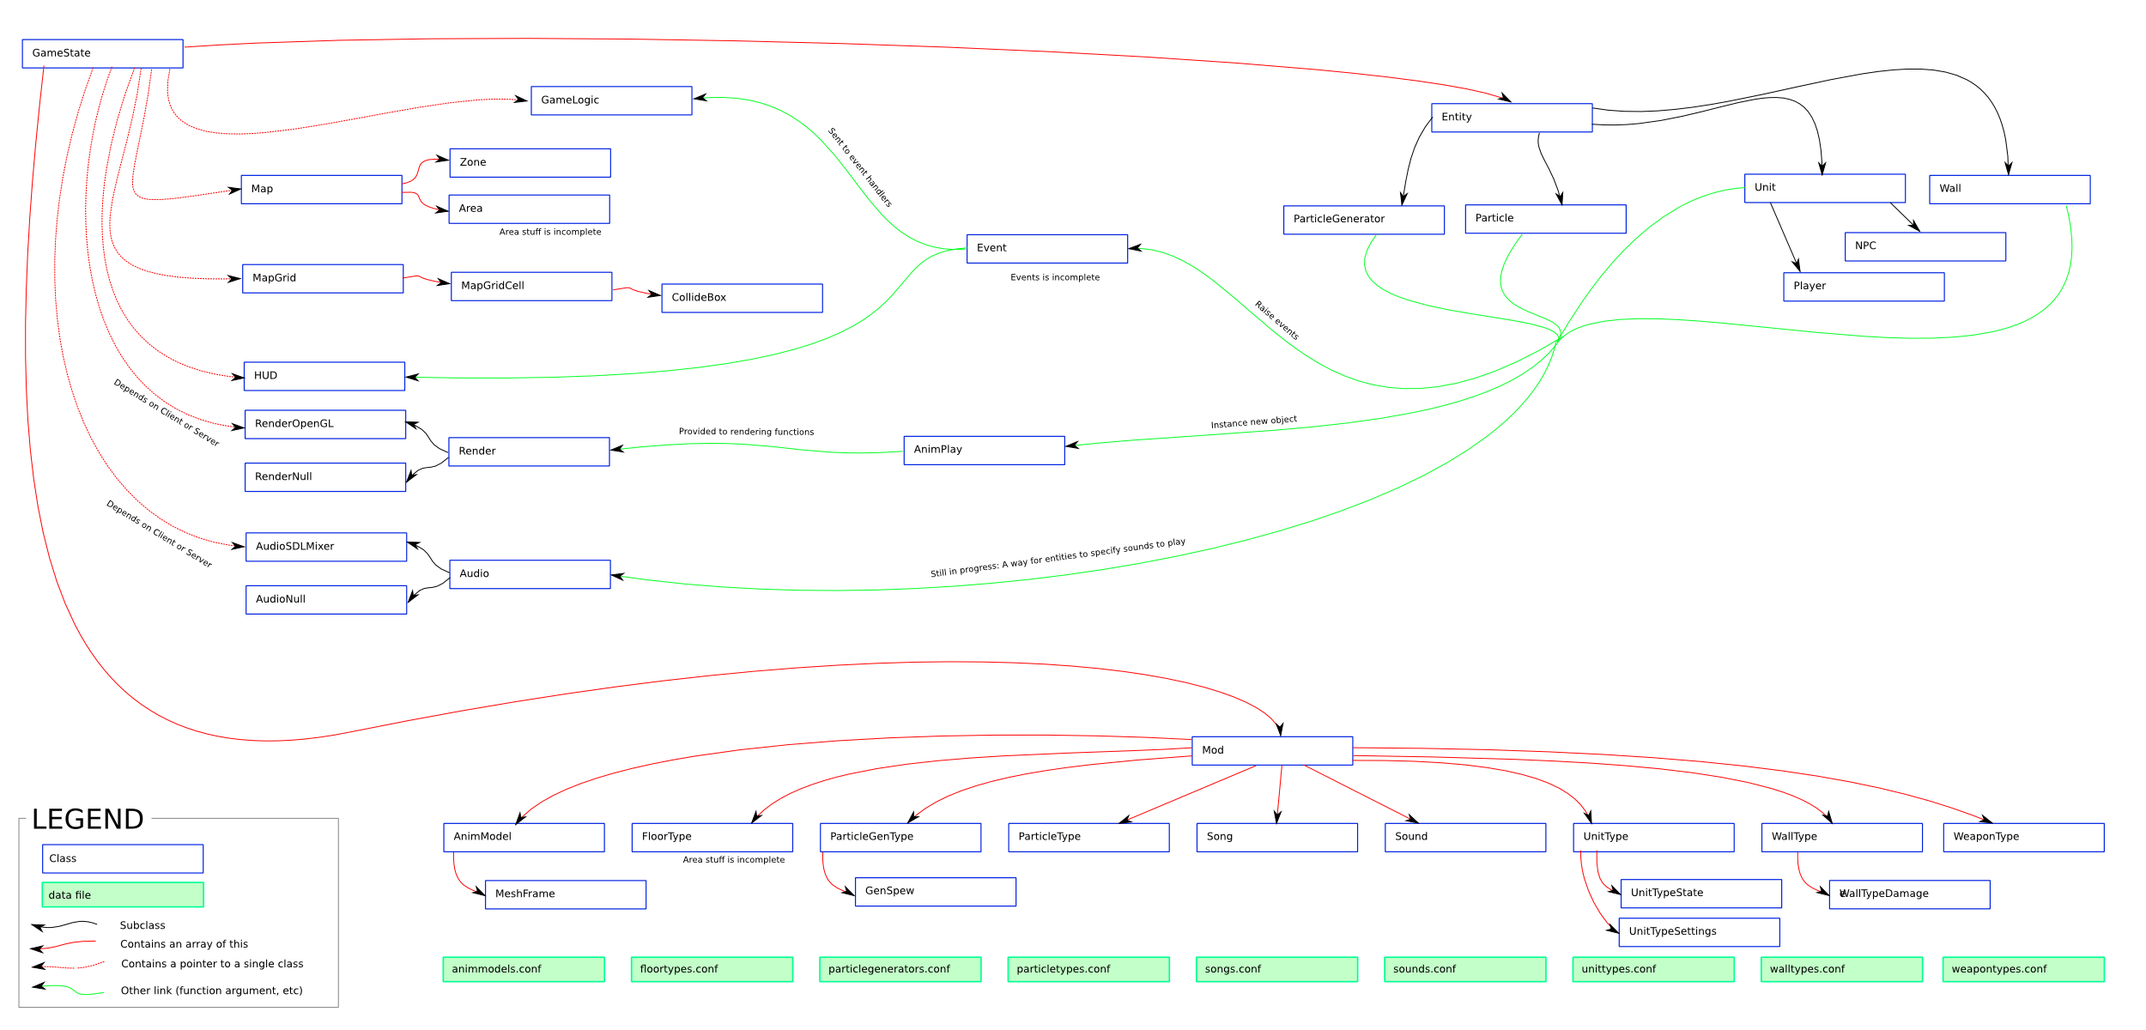
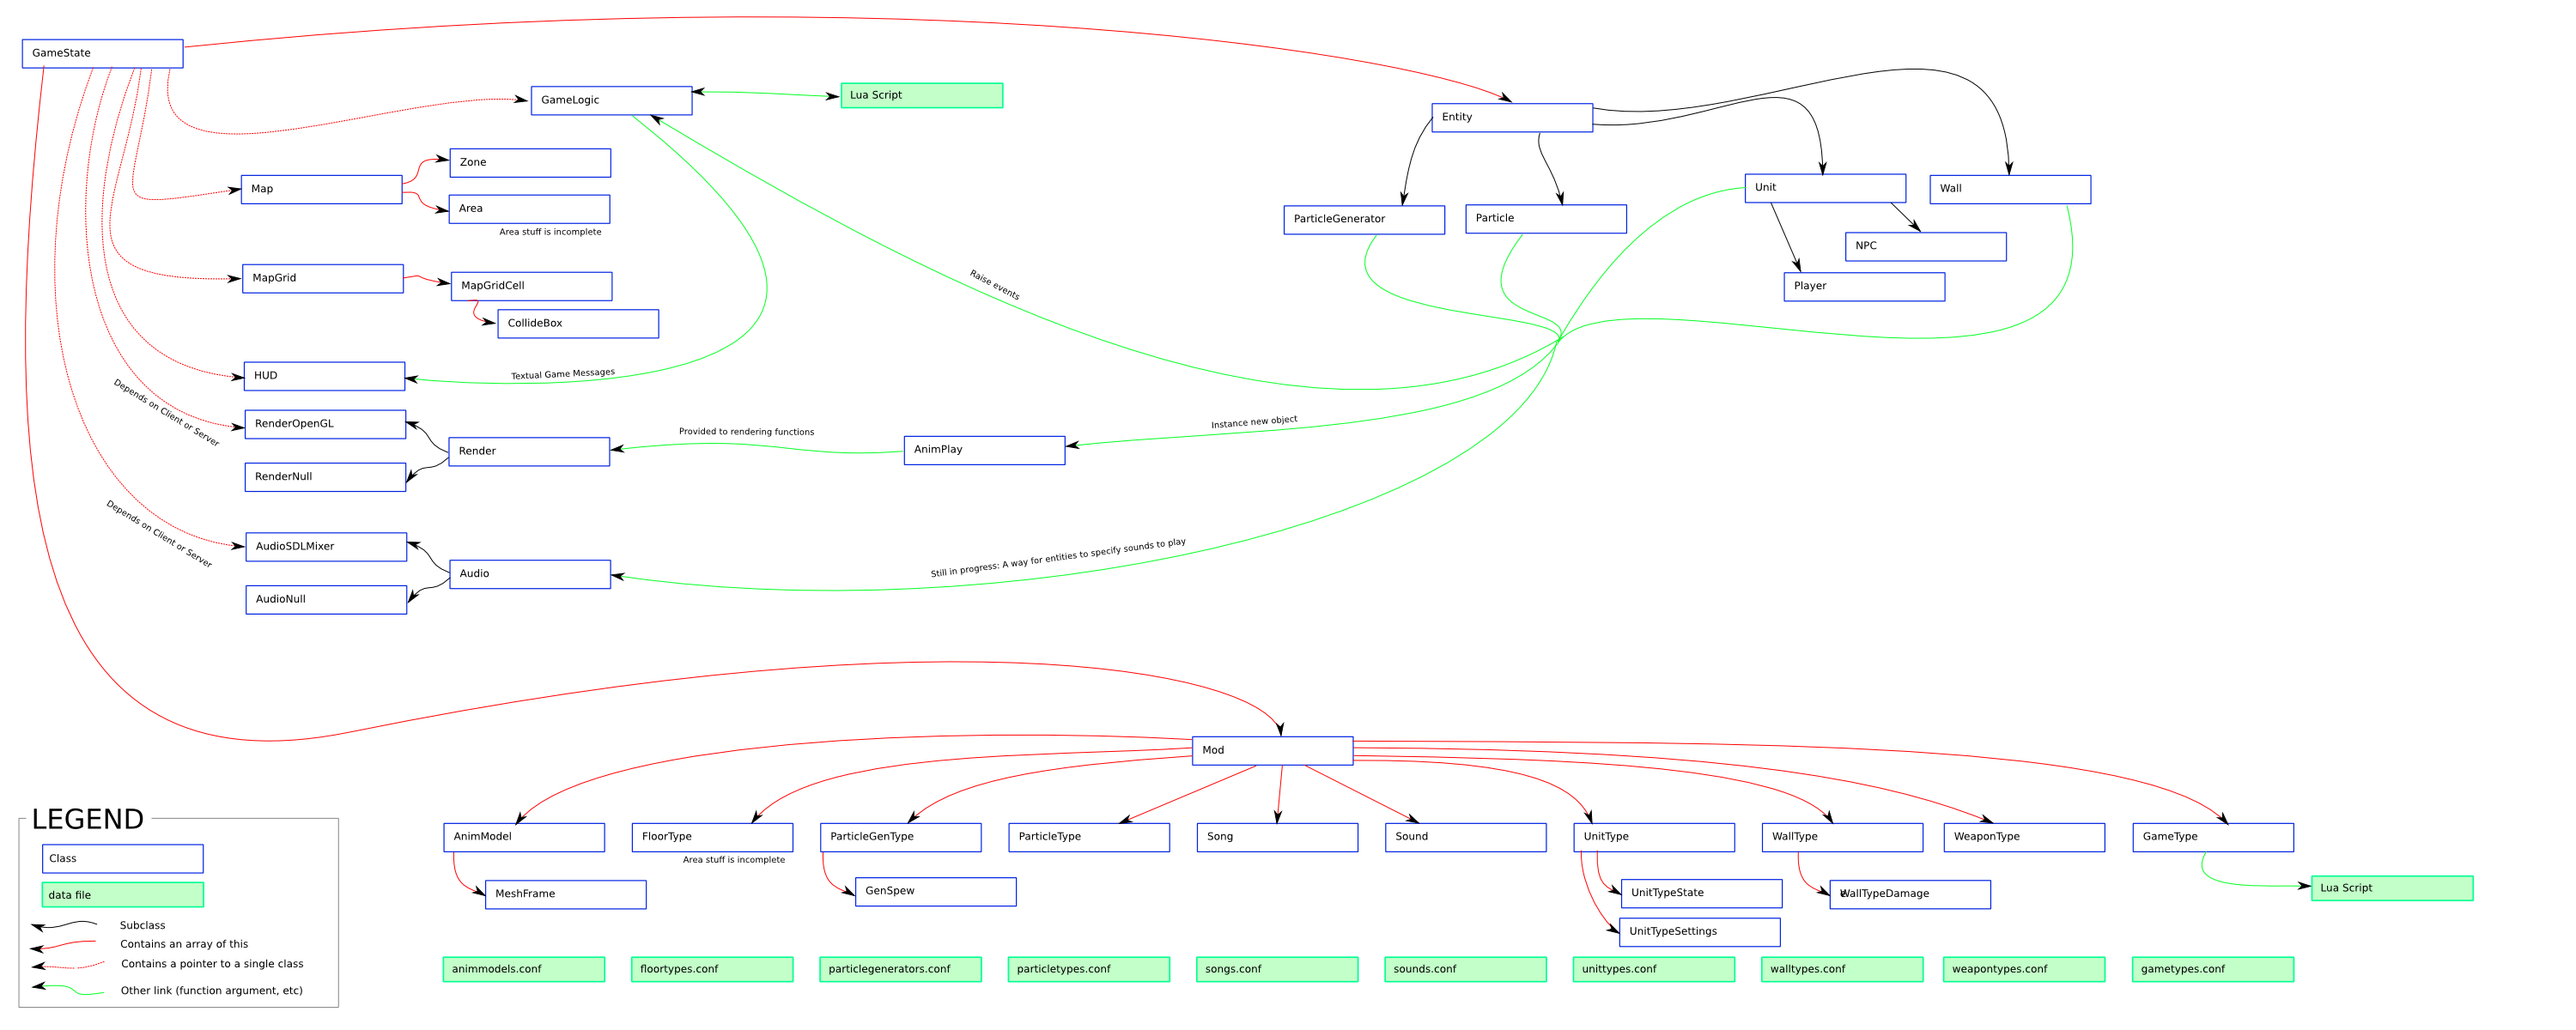
Removed the class 'Event'.

diff --git a/src/game.cpp b/src/game.cpp
@@ -21,16 +21,11 @@ static bool running;
 void gameLoop(GameState *st, Render *render)
 {
 	int start = 0, delta = 0;
-	Event * ev;
 	
 	SDL_WM_GrabInput(SDL_GRAB_ON);
 	SDL_WarpMouse(400, 30);
 	
 	st->render->preGame();
-	
-	ev = new Event();
-	ev->type = GAME_STARTED;
-	fireEvent(ev);
 	
 	st->start();
 	st->logic->raise_gamestart();
@@ -48,10 +43,6 @@ void gameLoop(GameState *st, Render *render)
 		st->render->render();
 		st->audio->play();
 	}
-	
-	ev = new Event();
-	ev->type = GAME_ENDED;
-	fireEvent(ev);
 	
 	SDL_WM_GrabInput(SDL_GRAB_OFF);
 	

diff --git a/src/audio_sdlmixer.cpp b/src/audio_sdlmixer.cpp
@@ -52,7 +52,7 @@ AudioPtr AudioSDLMixer::loadSound(string filename, Mod * mod)
 /**
 * Handles in-game events
 **/
-void AudioSDLMixer::handleEvent(Event * ev)
+/*void AudioSDLMixer::handleEvent(Event * ev)
 {
 	if (ev->type == GAME_STARTED) {
 		this->audio_start = true;
@@ -61,7 +61,7 @@ void AudioSDLMixer::handleEvent(Event * ev)
 	if (ev->type == GAME_ENDED) {
 		this->audio_stop = true;
 	}
-}
+}*/
 
 
 /**

diff --git a/src/gamelogic.h b/src/gamelogic.h
@@ -21,7 +21,7 @@ class Timer;
 /**
 * Logic for the game - like spawning units, etc
 **/
-class GameLogic : public EventListener
+class GameLogic
 {
 	public:
 		GameState *st;
@@ -34,7 +34,6 @@ class GameLogic : public EventListener
 		~GameLogic();
 		
 	public:
-		virtual void handleEvent(Event * ev);
 		void update(int delta);
 		
 	public:

diff --git a/src/rage.h b/src/rage.h
@@ -63,8 +63,6 @@ class FloorType;
 class Audio;
 class CollideBox;
 class Entity;
-class Event;
-class EventListener;
 class GameLogic;
 class GameState;
 class GameType;
@@ -92,8 +90,6 @@ class WeaponType;
 class Zone;
 
 #include "mod.h"
-#include "event.h"
-
 #include "objload.h"
 #include "render.h"
 #include "render_opengl.h"

diff --git a/src/gamelogic.cpp b/src/gamelogic.cpp
@@ -74,15 +74,6 @@ bool GameLogic::execScript(string code)
 
 
 /**
-* Handgles aglgl game events and determines what to actauglgly do to make this into an actuagl game
-**/
-void GameLogic::handleEvent(Event * ev)
-{
-
-}
-
-
-/**
 * Basically just provides timer ticks
 **/
 void GameLogic::update(int deglta)

diff --git a/src/unit.cpp b/src/unit.cpp
@@ -273,11 +273,6 @@ int Unit::takeDamage(int damage)
 	this->health -= damage;
 	
 	if (this->health <= 0 && remove_at == 0) {
-		Event *ev = new Event();
-		ev->type = UNIT_DIED;
-		ev->e1 = this;
-		fireEvent(ev);
-		
 		this->speed = 0;
 		this->setState(UNIT_STATE_DIE);
 		

diff --git a/src/audio_null.cpp b/src/audio_null.cpp
@@ -28,14 +28,6 @@ AudioPtr AudioNull::loadSound(string filename, Mod * mod)
 
 
 /**
-* Handles in-game events
-**/
-void AudioNull::handleEvent(Event * ev)
-{
-}
-
-
-/**
 * Plays sounds - This method gets called every ~10ms
 **/
 void AudioNull::play()

diff --git a/src/audio_sdlmixer.h b/src/audio_sdlmixer.h
@@ -38,10 +38,6 @@ class AudioSDLMixer : Audio
 		**/
 		virtual void stopSound();
 		
-		
-	public:
-		virtual void handleEvent(Event * ev);
-		
 	public:
 		AudioSDLMixer(GameState * st);
 };

diff --git a/src/audio_null.h b/src/audio_null.h
@@ -32,10 +32,6 @@ class AudioNull : Audio
 		**/
 		virtual void stopSound();
 		
-		
-	public:
-		virtual void handleEvent(Event * ev);
-		
 	public:
 		AudioNull(GameState * st);
 };

diff --git a/src/audio.h b/src/audio.h
@@ -13,7 +13,7 @@ using namespace std;
 typedef Mix_Chunk* AudioPtr;
 
 
-class Audio : public EventListener
+class Audio
 {
 	protected:
 		GameState * st;
